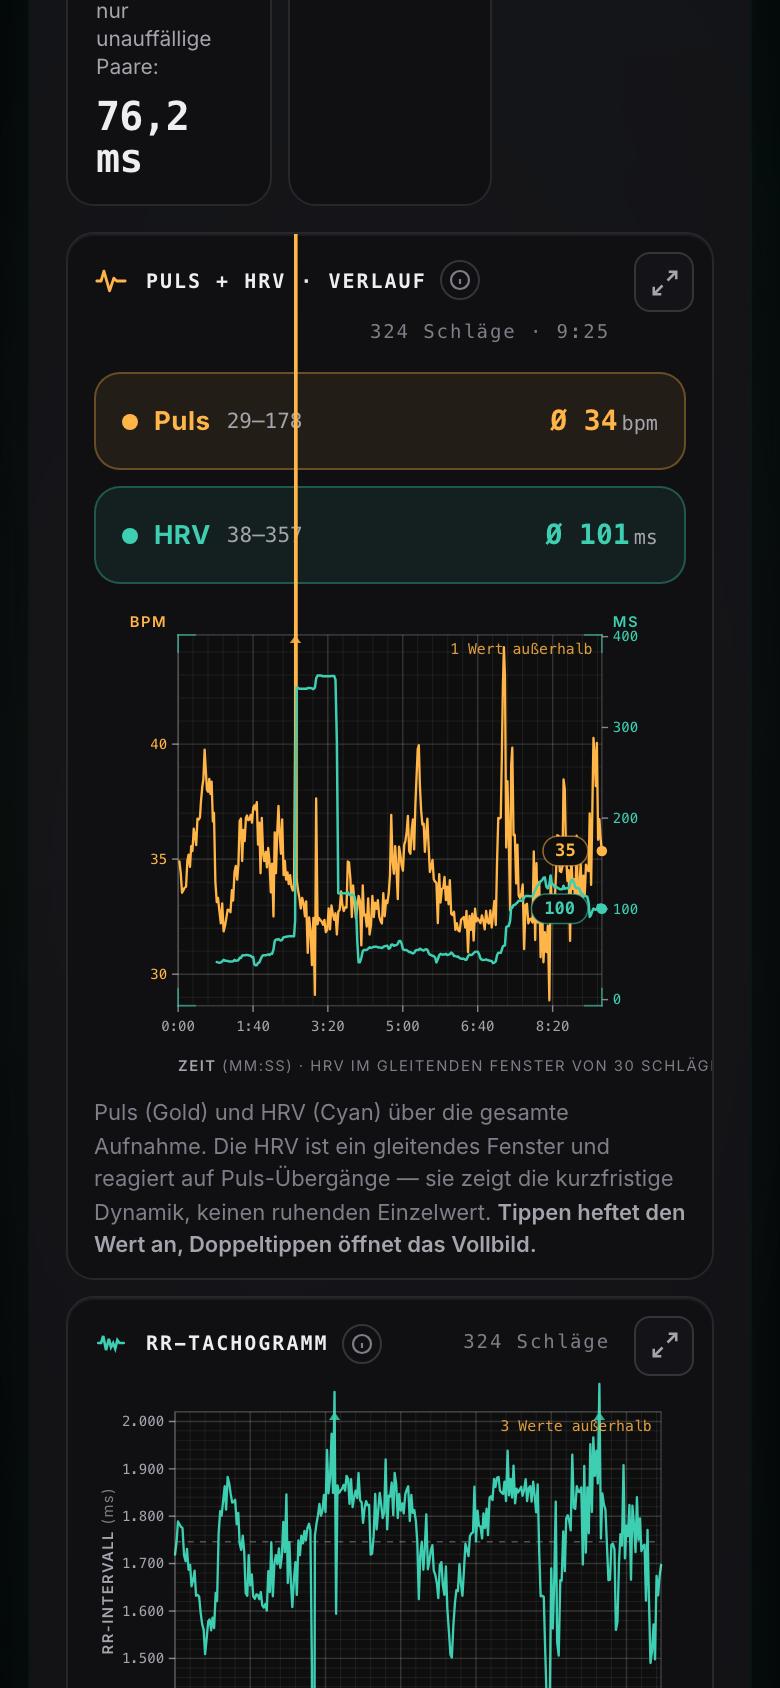
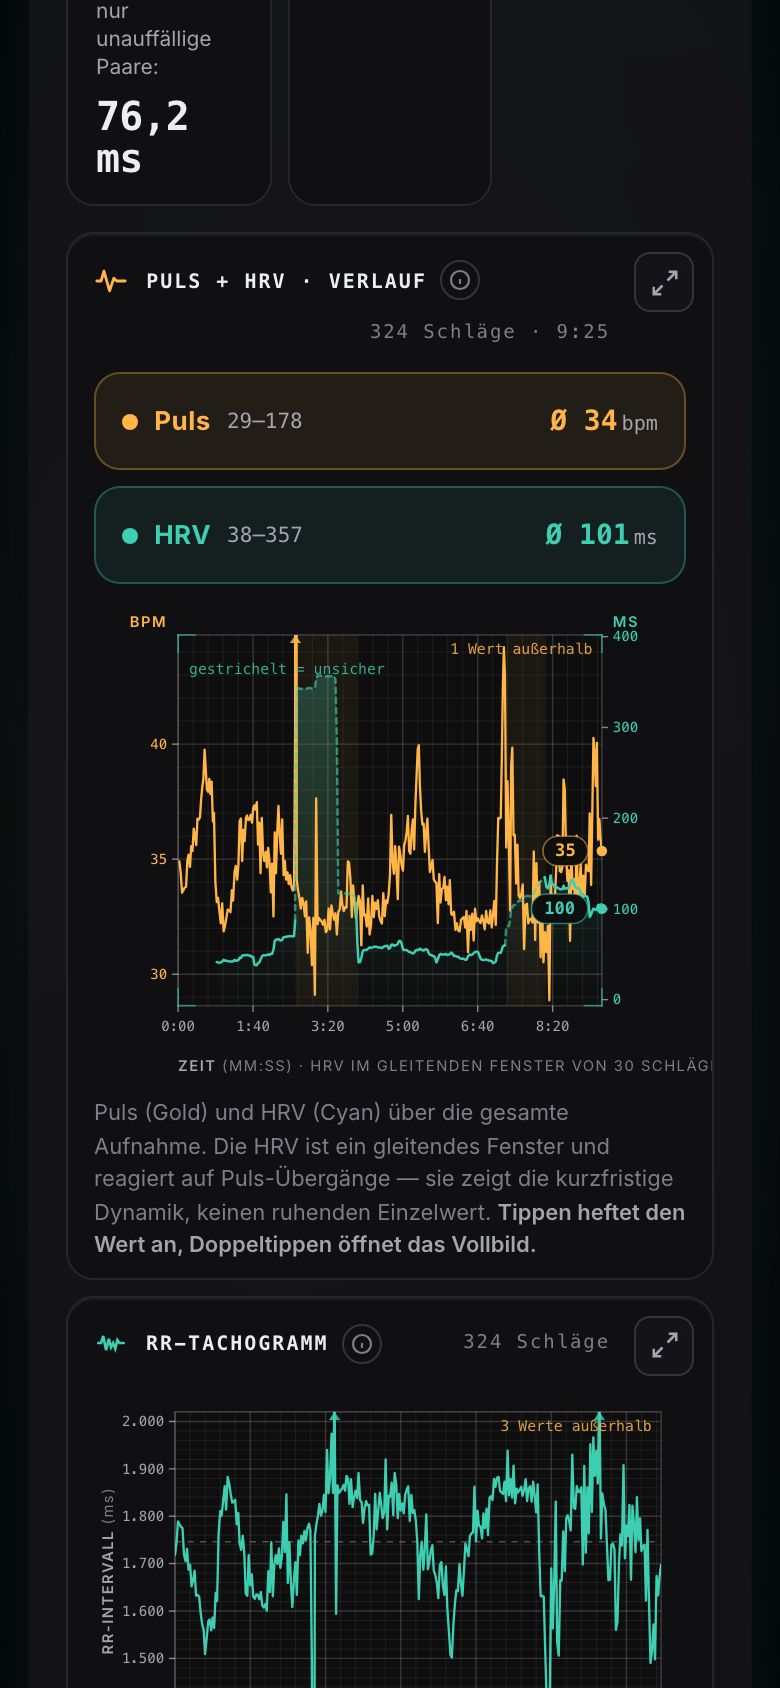
Die HRV-Kurve zeigt, wo ihr Fenster ein Artefakt traegt
Die HRV ist ein gleitendes RMSSD ueber ein Fenster von 30 Schlaegen. Ein
EINZIGER auffaelliger Abstand geht in dieses Fenster ein und BLEIBT DARIN,
bis er hinten herausfaellt — er hebt die Kurve also ueber dreissig
Schlaege an. Im Bild sieht das aus wie ein anhaltender Zustand des Tieres;
tatsaechlich ist es ein Schlag. Genau so entstand in der Beispielmessung
ein "Plateau", das keines war.

AN DER ECHTEN AUFNAHME GEMESSEN: 98,8 % der Schlagpaare sind unauffaellig
— aber 25,4 % der Kurve werden von VIER Artefakten getragen. Die
Signalguete-Zahl klingt makellos und verschweigt genau das.

WIR RECHNEN NICHTS HERAUS. Diese Seite klassifiziert nicht; beim Pferd
liegen physiologische Pausen (AV-Block II°, beim ruhenden Tier normal) und
echte Stoerungen in derselben Serie, und ein Filter kann sie nicht
unterscheiden. Wer hier faengt, entscheidet heimlich, was Physiologie war.

WAS WIR TUN: die Rechnung bleibt Zeichen fuer Zeichen dieselbe, aber die
Kurve ZEIGT, wo ihr Fenster ein auffaelliges Paar enthaelt — gestrichelt,
blass hinterlegt, in der Legende benannt, im Tooltip ausgewiesen und in der
Bildbeschreibung erklaert. Kriterium ist dasselbe wie bei den Kennwerten
(Task Force 1996 / Malik, 20 %): EIN Kriterium, EINE Stelle, sonst sagt der
Beleg etwas anderes als das Bild.

DABEI EINEN ALTFEHLER GEFUNDEN, den erst die Beschneidung sichtbar machte:
Die Kennung der Zeichnung kam aus Breite und Hoehe — und die Live-Ansicht
[…]

Changed region(s): [[0.3692, 0.4005, 0.4615, 0.5545], [0.3692, 0.154, 0.4, 0.3697], [0.6462, 0.5237, 0.6769, 0.5545]]

diff --git a/carlon-equine/app/messen.html b/carlon-equine/app/messen.html
@@ -1616,7 +1616,8 @@ const Chart={
       } else if(mode==='vitals'){
         html=`<div class="tt-h">${best.tt} ${t('afterStart')}</div>`
             +`<div class="tt-v" style="color:var(--amber)">${best.hr} bpm</div>`
-            +`<div class="tt-s" style="color:var(--cyan)">${best.hv!=null?fmt1(best.hv)+' ms HRV':'HRV \u2014'}</div>`;
+            +`<div class="tt-s" style="color:var(--cyan)">${best.hv!=null?fmt1(best.hv)+' ms HRV':'HRV \u2014'}`
+            +`${best.hvU?' <span style="opacity:.75">\u00b7 auff\u00e4lliges Paar im Fenster</span>':''}</div>`;
       } else {
         html=`<div class="tt-h">Schlag ${best.i+1}</div>`
             +`<div class="tt-v" style="color:var(--cyan)">${best.rr} ms</div>`
@@ -1705,6 +1706,19 @@ const Chart={
   /* Nur Flaechenverlaeufe, KEIN Linien-Glow: eine weichgezeichnete Linie
      wirkt wattig. Praezision entsteht durch eine harte Kante — die Tiefe
      kommt aus dem Verlauf unter der Kurve. */
+  /* ⚠ JEDE ZEICHNUNG BRAUCHT EINE EIGENE KENNUNG.
+     Die Kennung wurde aus Breite und Hoehe berechnet — und die Live-Ansicht
+     zeichnet dasselbe Diagramm in denselben Massen wie die Ergebnis-Ansicht.
+     Damit lagen ZWEI `clipPath` mit derselben ID im Dokument; der Browser
+     nimmt die erste, und die gehoerte einem verborgenen Zweig. Ergebnis: die
+     Beschneidung griff gar nicht, und die Pulslinie eines gekappten Wertes
+     lief quer ueber die ganze Karte.
+     Der Fehler war schon vorher da (auch der Farbverlauf `ar-` kollidierte),
+     nur harmlos — erst der Clip hat ihn sichtbar gemacht.
+     Jetzt zaehlt ein Zaehler mit: gleiche Masse, verschiedene Kennung. */
+  _nr:0,
+  _uid(w,h){ return Math.round(w*11+h+3)+'-'+(++Chart._nr); },
+
   _defs(id, clip){
     return `<defs>
       <linearGradient id="ar-${id}" x1="0" y1="0" x2="0" y2="1">
@@ -1819,7 +1833,7 @@ const Chart={
   tachogram(rr,{w=720,h=230,xlabel='SCHLAG-NR.'}={}){
     if(!rr||rr.length<2) return '';
     const pad={l:52,r:16,t:14,b:32}, n=rr.length;
-    const uid=Math.round(w*7+h+11);
+    const uid=Chart._uid(w,h);
     /* Robuste Grenzen statt min/max — siehe Chart._robust. Beim Tachogramm
        faellt es besonders auf: ein einziger halbierter Abstand (T-Welle als
        Schlag gezaehlt) zog die Achse bis 500 ms hinunter, waehrend die Reihe
@@ -1883,7 +1897,7 @@ const Chart={
      Die Animation gehoert dem ersten Erscheinen, nicht jedem Neuzeichnen. */
   vitals(rr,{w=720,h=320,anim=true}={}){
     if(!rr||rr.length<10) return '';
-    const n=rr.length, uid=Math.round(w*11+h+3);
+    const n=rr.length, uid=Chart._uid(w,h);
     const hf=rr.map(v=>60000/v);
     const Wb=Math.min(30,Math.max(5,Math.floor(n/3)));
     const all=rr.map((_,i)=>{ const lo=Math.max(1,i-Wb+1); let s=0,c=0;
@@ -1941,15 +1955,86 @@ const Chart={
     const hvSlice=all.slice(i0);
     const decHV=Chart._decimate(hvSlice,cols);
     const decHF=Chart._decimate(hf,cols);
+
+    /* ── DIE VERSCHMIERUNG SICHTBAR MACHEN ─────────────────────────────
+       ⚠ DER BEFUND (13.08.2026, an der echten Aufnahme gemessen)
+       Die HRV-Kurve ist ein gleitendes RMSSD ueber ein Fenster von ${Wb}
+       Schlaegen. Ein EINZIGER auffaelliger Abstand geht in dieses Fenster
+       ein und BLEIBT DARIN, bis er hinten wieder herausfaellt — er hebt die
+       Kurve also ueber ${Wb} Schlaege an. Im Bild sieht das aus wie ein
+       anhaltender Zustand des Tieres; tatsaechlich ist es ein Schlag.
+       Genau so entstand in der Beispielmessung ein „Plateau", das keines war.
+
+       WAS WIR NICHT TUN: den Wert herausrechnen. Diese Seite klassifiziert
+       nicht — beim Pferd liegen physiologische Pausen (AV-Block II°, beim
+       ruhenden Tier normal) und echte Stoerungen in derselben Serie, und ein
+       Filter kann sie nicht unterscheiden. Wer hier faengt, entscheidet
+       heimlich, was Physiologie war.
+
+       WAS WIR TUN: die Rechnung bleibt unveraendert, aber die Kurve ZEIGT,
+       wo ihr Fenster ein auffaelliges Paar enthaelt — gestrichelt, hinterlegt
+       und benannt. Die Auskunft „hier bin ich mir nicht sicher" ist mehr
+       wert als eine glatte Linie, die sie verschweigt.
+
+       Das Kriterium ist dasselbe wie bei den Kennwerten (Task Force 1996 /
+       Malik): ein Abstand, der um mehr als 20 % vom vorigen abweicht. EIN
+       Kriterium, EINE Stelle — sonst sagt der Beleg etwas anderes als das
+       Bild. */
+    const unplaus=new Array(n).fill(0);
+    for(let j=1;j<n;j++) if(Math.abs(rr[j]-rr[j-1])>0.20*rr[j-1]) unplaus[j]=1;
+    const preU=new Array(n+1).fill(0);
+    for(let j=0;j<n;j++) preU[j+1]=preU[j]+unplaus[j];
+    /* Traegt das Fenster, das bei Schlag i endet, ein auffaelliges Paar? */
+    const fensterUnsicher=i=>{ const lo=Math.max(1,i-Wb+1); return (preU[i+1]-preU[lo])>0; };
+
+    /* Zusammenhaengende unsichere Abschnitte — in ZEIT, nicht in Schlaegen:
+       so liegt das Band genau unter dem Stueck Kurve, das es meint. */
+    const unsicherBaender=[]; let laufAb=null;
+    for(let k=0;k<hvSlice.length;k++){
+      const i=i0+k, u=fensterUnsicher(i);
+      if(u && laufAb===null) laufAb=tAll[i];
+      if(!u && laufAb!==null){ unsicherBaender.push([laufAb,tAll[i]]); laufAb=null; }
+    }
+    if(laufAb!==null) unsicherBaender.push([laufAb,tAll[n-1]]);
+    const unsicherSchlaege=hvSlice.reduce((a,_,k)=>a+(fensterUnsicher(i0+k)?1:0),0);
+
+    /* Die Kurve in Stuecke gleicher Sicherheit zerlegen. Der Anschlusspunkt
+       gehoert zum FOLGENDEN Stueck — sonst entstuende an jeder Grenze eine
+       Luecke von einem Pixel, und die saehe aus wie ein Messaussetzer. */
+    const hvStuecke=[]; let akt=null;
+    for(let k=0;k<decHV.length;k++){
+      const u=fensterUnsicher(i0+decHV[k][0]);
+      if(!akt || akt.u!==u){
+        akt={u, pts: k>0 ? [decHV[k-1]] : []};
+        hvStuecke.push(akt);
+      }
+      akt.pts.push(decHV[k]);
+    }
+    const pfadHV=st=>st.pts.map(([i,v],k)=>`${k?'L':'M'}${X(tAll[i0+i]).toFixed(1)},${YV(v).toFixed(1)}`).join(' ');
+
     const dHV=decHV.map(([i,v],k)=>`${k?'L':'M'}${X(tAll[i0+i]).toFixed(1)},${YV(v).toFixed(1)}`).join(' ');
     const dHF=decHF.map(([i,v],k)=>`${k?'L':'M'}${X(tAll[i]).toFixed(1)},${YH(v).toFixed(1)}`).join(' ');
     /* BESCHNITTEN AUF DIE ZEICHENFLAECHE. Ohne das liefe die Kurve eines
        gekappten Wertes ueber die Achsenbeschriftung und den Rand hinaus —
        und saehe aus wie ein Zeichenfehler statt wie ein Ausreisser. */
+    /* ⚠ ANIMATION UND STRICHELUNG SCHLIESSEN SICH AUS: `path.draw` zeichnet
+       sich selbst ueber `stroke-dasharray`/`stroke-dashoffset`. Eine zweite
+       Strichelung darauf ergaebe ein Flackern statt einer Aussage. Sobald es
+       unsichere Abschnitte gibt, laeuft die HRV-Linie deshalb ohne Animation
+       ein — der Puls behaelt seine. */
+    const hvAnim = anim && unsicherSchlaege===0;
     g+=`<g clip-path="url(#cl-${uid})">`
       +`<path d="${dHV} L${X(T).toFixed(1)},${pB.toFixed(1)} L${X(tAll[i0]).toFixed(1)},${pB.toFixed(1)} Z" fill="url(#ar-${uid})" stroke="none"/>`
+      /* Die Baender liegen UNTER den Kurven und ueber der Flaeche — sichtbar,
+         aber nie im Weg. Bewusst neutral-warm und sehr blass: eine kraeftige
+         Farbe wuerde wie ein Alarm wirken, und ein auffaelliges Paar ist beim
+         Pferd oft schlicht eine physiologische Pause. */
+      +unsicherBaender.slice(0,60).map(([a,b])=>
+        `<rect x="${X(a).toFixed(1)}" y="${pad.t}" width="${Math.max(1,X(b)-X(a)).toFixed(1)}" height="${plotH.toFixed(1)}" fill="var(--amber)" fill-opacity=".055"/>`).join('')
       +`<path class="${anim?'draw':''}" pathLength="1" d="${dHF}" fill="none" stroke="var(--amber)" stroke-width="1.5" stroke-linejoin="round" stroke-linecap="round"/>`
-      +`<path class="${anim?'draw d2':''}" pathLength="1" d="${dHV}" fill="none" stroke="var(--cyan)" stroke-width="1.6" stroke-linejoin="round" stroke-linecap="round"/>`
+      +hvStuecke.map(st=>
+        `<path class="${hvAnim?'draw d2':''}"${hvAnim?' pathLength="1"':''} d="${pfadHV(st)}" fill="none" stroke="var(--cyan)" stroke-width="1.6" stroke-linejoin="round" stroke-linecap="round"`
+        +(st.u?` stroke-dasharray="3.5 3" stroke-opacity=".62"`:'')+`/>`).join('')
       +`</g>`;
 
     /* Wo etwas ueber die Kante lief, steht eine Marke — an der Stelle der
@@ -1978,6 +2063,25 @@ const Chart={
        ganzen. */
     const kapp=rH.clipped+rV.clipped;
     g+=Chart._clipNote(w-pad.r-6, pad.t+12, kapp);
+    /* Die Legende zur Strichelung. Sie steht IM Diagramm — die
+       Zeitachsen-Beschriftung darunter ist auf dem Telefon abgeschnitten,
+       und dort wird gemessen. Bei schmalem Bild die kurze Fassung: ein
+       Hinweis, der ueber den Rand laeuft, ist keiner. */
+    if(unsicherSchlaege){
+      /* ⚠ GEMESSEN, NICHT GESCHAETZT: bei 380 px Breite belegt der
+         Kapp-Hinweis rechts 97 px und die Legende links 177 px — zusammen
+         mehr als die 272 px Zeichenflaeche. Die beiden Texte lagen
+         uebereinander und ergaben Buchstabensalat.
+         Steht der Kapp-Hinweis, rueckt die Legende deshalb eine Zeile
+         tiefer. Zwei Hinweise, die sich gegenseitig unlesbar machen, sind
+         schlechter als einer. */
+      const kurz = plotW < 360;
+      const txt = kurz ? 'gestrichelt = unsicher'
+                       : 'gestrichelt · hinterlegt: Fenster enthält ein auffälliges Schlagpaar';
+      const zeile = kapp ? pad.t+25 : pad.t+12;
+      g+=`<text x="${(pad.l+7).toFixed(1)}" y="${zeile.toFixed(1)}" text-anchor="start"`
+        +` style="fill:var(--cyan);font-family:var(--font-mono);font-size:9.5px;opacity:.8">${txt}</text>`;
+    }
     g+=`<text x="${pad.l}" y="${h-4}" text-anchor="start" class="label-axis">ZEIT<tspan class="label-unit"> (MM:SS) · HRV IM GLEITENDEN FENSTER VON ${Wb} SCHLÄGEN</tspan></text>`;
 
     /* Endwert-Marken wie in der App: der letzte Wert steht als Plakette am
@@ -2007,14 +2111,19 @@ const Chart={
     // 50.000 Schlaegen).
     const pts=decHF.map(([i,v])=>({x:+X(tAll[i]).toFixed(1),y:+YH(v).toFixed(1),
       y2:(i>=i0?+YV(all[i]).toFixed(1):null), i, tt:ms(tAll[i]),
-      hr:Math.round(v), hv:(i>=i0?Math.round(all[i]*10)/10:null)}));
+      hr:Math.round(v), hv:(i>=i0?Math.round(all[i]*10)/10:null),
+      /* Die Unsicherheit reist bis in den Tooltip. Wer einen Wert antippt,
+         soll dort erfahren, was die gestrichelte Linie meint — sonst liest
+         er eine Zahl ab, die glatter aussieht, als sie ist. */
+      hvU:(i>=i0 && fensterUnsicher(i))?1:0}));
     /* Die Bildbeschreibung nennt die ECHTE Spanne der Messung, nicht die der
        Achse. Wer nur zuhört, bekaeme sonst einen beschnittenen Bericht — und
        genau das waere die stille Faelschung, die das Kappen vermeiden soll. */
     const alt=`Puls und Herzratenvariabilität über ${ms(T)} Aufnahmedauer. `
       +`Puls ${fmt0(Math.min(...hf))} bis ${fmt0(Math.max(...hf))} Schläge pro Minute, `
       +`HRV ${fmt0(Math.min(...hvSlice))} bis ${fmt0(Math.max(...hvSlice))} Millisekunden.`
-      +(kapp?` ${kapp} Wert${kapp===1?'':'e'} liegen außerhalb der gezeigten Achse und sind am Rand markiert; die Achse folgt den übrigen, damit der Verlauf lesbar bleibt.`:'');
+      +(kapp?` ${kapp} Wert${kapp===1?'':'e'} liegen außerhalb der gezeigten Achse und sind am Rand markiert; die Achse folgt den übrigen, damit der Verlauf lesbar bleibt.`:'')
+      +(unsicherSchlaege?` Auf ${unsicherSchlaege} von ${hvSlice.length} Schlägen enthält das gleitende HRV-Fenster ein auffälliges Schlagpaar; die Kurve ist dort gestrichelt und hinterlegt. Ein einzelner auffälliger Abstand hebt sie über die volle Fensterlänge von ${Wb} Schlägen an — das sieht wie ein anhaltender Zustand aus und ist keiner.`:'');
     return Chart._hov(g,w,h,pts,'vitals','',alt);
   },
 

diff --git a/carlon-equine/app/index.html b/carlon-equine/app/index.html
@@ -10002,6 +10002,14 @@ const Sprache={
     'abgerechnet':'billed',
     'Zweitmeinung':'Second opinion',
     'Telemetrie-Ferneinschätzung':'Telemetry remote assessment',
+    /* ⚠ DREI VON FÜNF LEISTUNGSARTEN FEHLTEN. Sie stehen in derselben
+       Auswahlliste wie die beiden uebersetzten — ein englischer Tierarzt sah
+       also eine halb deutsche Liste. Aufgefallen ist es erst, als t-sprache
+       mit einem FRISCHEN Browserprofil lief: im mitgeschleppten Profil war
+       eine andere Stelle vorgelagert und verdeckte diese. */
+    'Verlaufskontrolle HRV':'HRV follow-up',
+    'Trainings-/Coaching-Beratung':'Training / coaching advice',
+    'Triage-Vorabklärung':'Triage pre-assessment',
     'Notizen':'Notes',
     'Klinische Notizen, Verlauf, Absprachen…':'Clinical notes, history, agreements…',
     'Foto hinzufügen/ändern':'Add/change photo',
@@ -10182,6 +10190,21 @@ const Sprache={
     [/^(\d+) km gespart$/,'$1 km saved'],
     [/^(\d+)\/(\d+) erledigt$/,'$1/$2 done'],
     [/^(\d+) gesamt im System$/,'$1 in the system'],
+    /* Zaehltext des Posteingangs. Er kann nur noch fuer Altbestand
+       erscheinen (das Postfach schlaeft), muss aber uebersetzt sein, solange
+       er erscheinen KANN — ein deutscher Rest auf einer englischen Seite ist
+       kein kleinerer Fehler, nur ein selteneres Vorkommnis. */
+    [/^(\d+) nicht lesbar$/,'$1 unreadable'],
+    /* ZUSAMMENGESETZT: „Leistungsart · 15 Min". Das Woerterbuch trifft nur
+       ganze Zeichenketten, hier steht aber die Art MIT ihrer Dauer. Statt
+       jede Kombination einzeln zu pflegen — fuenf Arten mal beliebige
+       Minuten — nutzt die Regel das Woerterbuch NACH: der Ersatz darf eine
+       Funktion sein. Neue Leistungsarten uebersetzen sich damit von selbst,
+       sobald sie im Woerterbuch stehen.
+       Faellt die Art dort nicht auf, bleibt sie stehen statt zu
+       verschwinden — ein halb uebersetzter Eintrag ist immer noch lesbar,
+       ein leerer nicht. */
+    [/^(.+) · (\d+) Min$/, (_m,art,min)=>(Sprache.WB[art]||art)+' · '+min+' min'],
     [/^Abfahrroute planen · (\d+)$/,'Plan route · $1'],
     [/^Zuerst: (.+) · (\d+) km$/,'First: $1 · $2 km'],
     [/^Einsatzplan · (.+)$/,'Day plan · $1'],

diff --git a/carlon-equine/app/sw.js b/carlon-equine/app/sw.js
@@ -2,7 +2,7 @@
    App-Shell wird precached; Fonts & Leaflet lokal gebündelt (assets/) — keine externen CDNs,
    sodass die App nach dem ersten Online-Start vollständig offline läuft.
    Gesundheitsdaten liegen in IndexedDB — der SW cached nur Programm-Assets. */
-const VERSION = 'carlon-clinic-d63244dd71';
+const VERSION = 'carlon-clinic-fb3fa55c3a';
 /* ACHTUNG: JEDE Datei in CORE wird ausgeliefert, bis VERSION sich aendert.
    Zweimal in dieser Nacht passiert — einmal beim Livegang-Schalter, einmal bei
    krypto.js: Datei geaendert, Version vergessen, und der Browser lieferte
